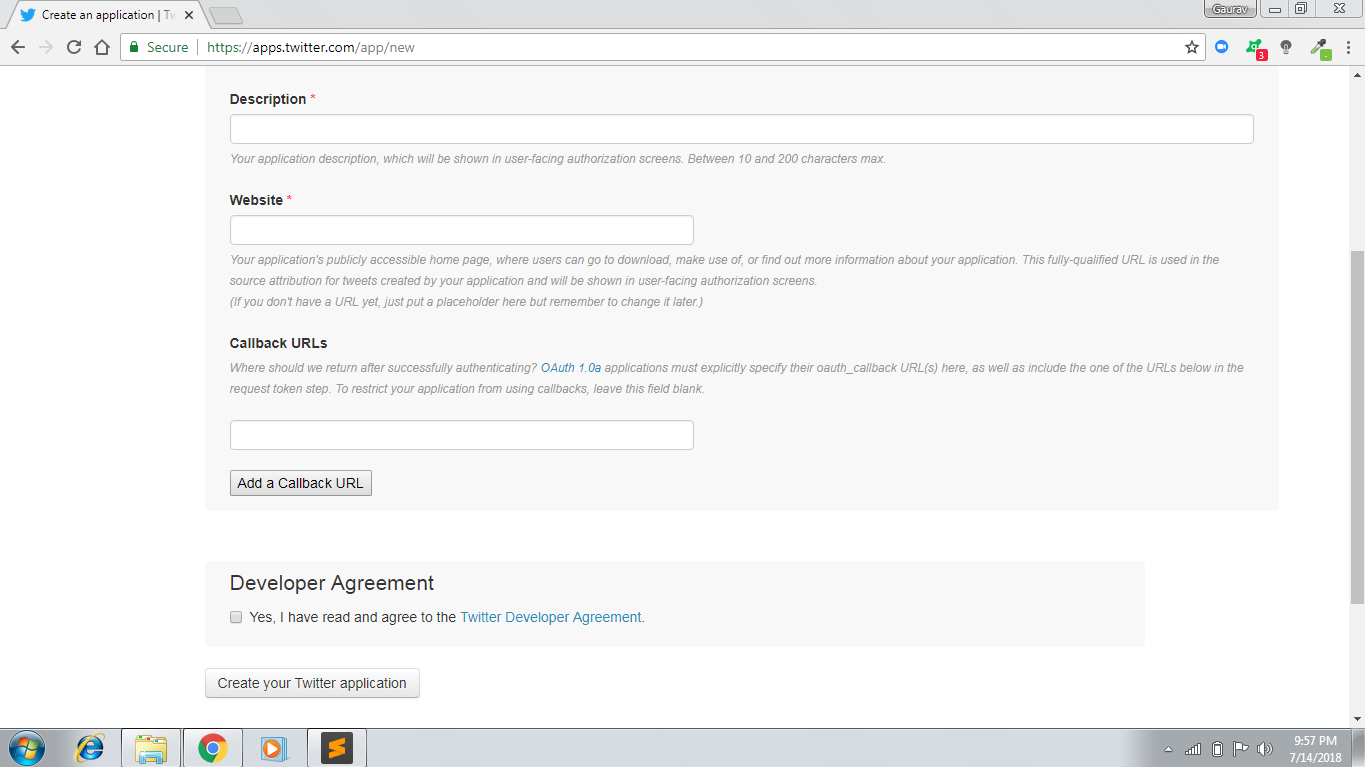
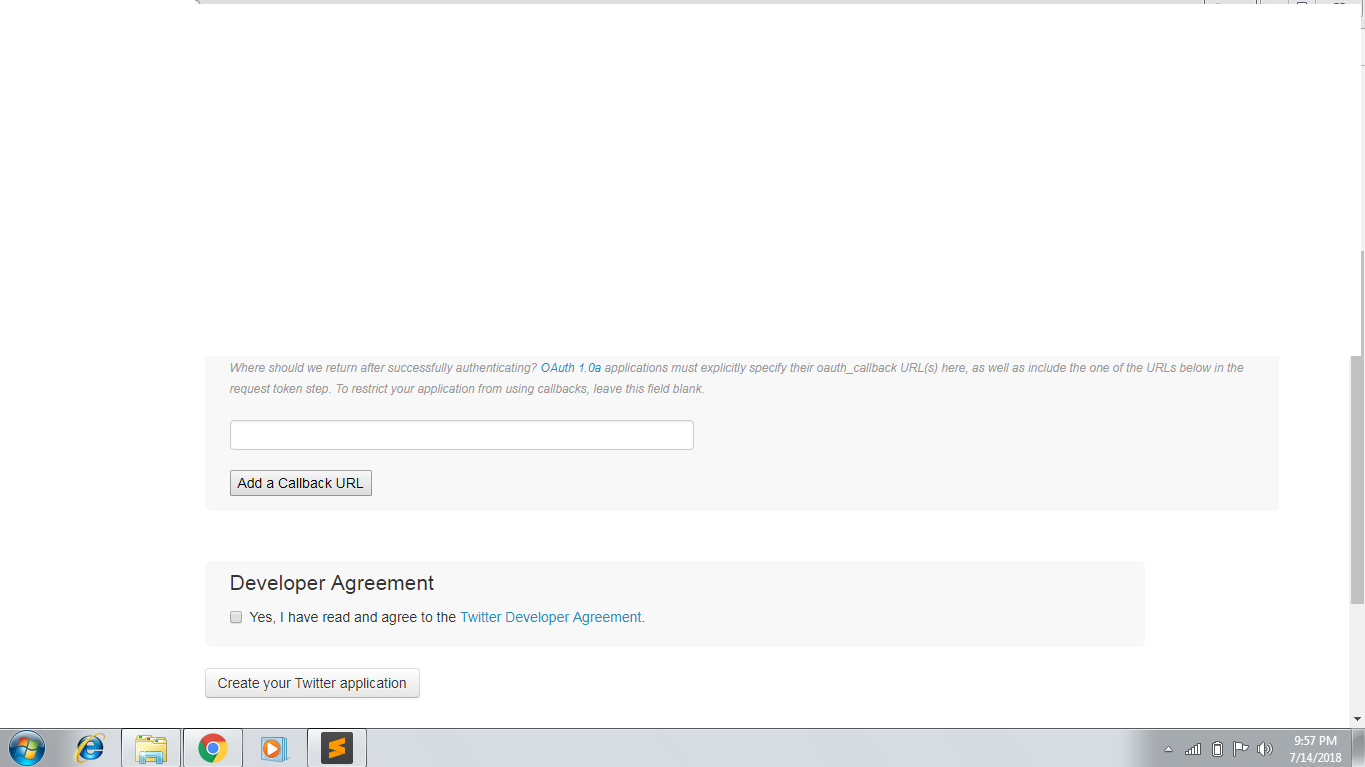
twitterbot added

diff --git a/readme.md b/readme.md
@@ -46,4 +46,9 @@
 
 ![Image of create new app](start1.PNG)
 
-### * Read the developer agreement section, and check the box at the bottom if you agree. Then click on the ‘Create your Twitter application’ button
+-----------------------------------------------------------------------------------------------
+
+### * Read the developer agreement section, and check the box at the bottom if you agree. Then click on 
+the ‘Create your Twitter application’ button
+
+![Image of create new app](start2.PNG)
